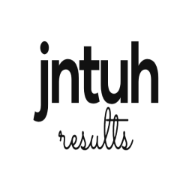
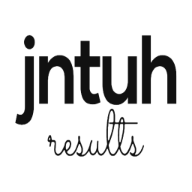
ui updated

Changed region(s): [[0.0625, 0.1562, 0.9375, 0.8438]]

diff --git a/components/Home/jnuth.js b/components/Home/jnuth.js
@@ -1,45 +1,34 @@
 import React, { useEffect, useState } from 'react';
-import Link from 'next/link';
-import { MdOutlineDarkMode, MdLightMode } from 'react-icons/md';
-import { AiFillGithub as GitHubIcon } from 'react-icons/ai';
 import Image from 'next/image';
-import { BiShareAlt } from 'react-icons/bi';
 
 const Jntuh = () => {
 
     return (
         <>
-            <div className="h-20 flex items-center px-4  sticky">
-                <h1 className="text-xll font-bold md:text-lg lg:text-2xl text-[#020E24] ml-9">
-
-                    <a>
+            <div className="h-20 flex items-center justify-between px-4 sticky">
+                <div className="flex items-center space-x-4">
+                    <a onClick={() => window.location.reload()}>
                         <Image
                             src="/jntuh.png"
-                            onClick="window.location.reload()"
-                            className="w-[60px]  sm:w-[80px]"
+                            className="w-16 md:w-24"
                             alt=""
-                            width={120}
-                            height={100}
+                            width={140}
+                            height={120}
                             quality={80}
                         />
                     </a>
-
-                </h1>
-
-                {/* <div className="font-bold  lg:text-3xl text-[#020E24] mt-1 ml-5 mb-6 ">
-                    <h2 className="text-center">
+                    <h1 className="text-2xl md:text-3xl lg:text-4xl font-bold text-[#020E24]">
                         Jawaharlal Nehru Technological University Hyderabad
-                    </h2>
-
-                </div> */}
-                <div className="flex flex-col items-center justify-center text-center ">
-                    <div className="p-6">
-                        <h1 className="text-xl lg:text-2xl font-bold mb-5 uppercase mr-10" >Jawaharlal Nehru Technological University Hyderabad</h1>
-                        <h1 className="text-lg text-black  sm:text-xl"></h1>
-                    </div>
+                    </h1>
                 </div>
+                {/* <div className="flex items-center justify-center">
+                    <h1 className="text-xl md:text-2xl lg:text-3xl font-bold text-black">
+                        JNTUH
+                    </h1>
+                </div> */}
             </div>
         </>
-    )
-}
+    );
+};
+
 export default Jntuh;

diff --git a/components/StudentDataCard/StudentDataCard.js b/components/StudentDataCard/StudentDataCard.js
@@ -145,13 +145,13 @@ const StudentDataCard = ({ query }) => {
     
           <a target="_blank" className='border-1 border-gray-100 hover:drop-shadow-sm group text-black shadow-2xl max-w-xs p-2 mt-6 md:w-36 rounded-xl hover:border-gray-500 transition ease-in-out delay-75 hover:-translate-y-1 hover:scale-105 hover:bg-gray-300 duration-300 m-4'>
             <h3 className='group-hover:text-black text-lg sm:text-xl font-bold text-center'>TOTAL PASSED</h3>
-            <p className='group-hover:text-black text-slate-500 mt-2 text-base sm:text-2xl text-center text-green-500'>{passedSubjects}</p>
+            <p className='group-hover:text-black text-slate-500 mt-2 text-base sm:text-2xl text-center text-green-300'>{passedSubjects}</p>
           </a>
         
         
-          <a target="_blank" className='border-1 border-gray-100 hover:drop-shadow-sm group text-black shadow-2xl max-w-xs p-2 mt-6 md:w-36 rounded-xl hover:border-gray-500 transition ease-in-out delay-75 hover:-translate-y-1 hover:scale-105 hover:bg-gray-300 duration-300 m-4'>
-            <h3 className='group-hover:text-black text-lg sm:text-xl font-bold text-center'>TOTAL FAILED</h3>
-            <p className='group-hover:text-black text-slate-500 mt-2 text-base sm:text-2xl text-center text-red-500'>{failedSubjects}</p>
+          <a target="_blank" className='border-1 border-gray-100 hover:drop-shadow-sm group text-black shadow-2xl max-w-xs p-2 mt-6 md:w-36 rounded-xl hover:border-gray-500 transition ease-in-out delay-75 hover:-translate-y-1 hover:scale-105 hover:bg-gray-300 duration-300 m-4 '>
+            <h3 className='group-hover:text-black text-lg sm:text-xl font-bold text-center '>TOTAL FAILED</h3>
+            <p className='group-hover:text-black text-slate-500 mt-2 text-base sm:text-2xl text-center text-red-300 '>{failedSubjects}</p>
           </a>
         
         <Link href="/CreditsCalculator">

diff --git a/pages/MultiList.js b/pages/MultiList.js
@@ -38,7 +38,7 @@ const HomePrintlist = ({ homepage }) => {
             <div method="get" >
                 <center>
                     <br />
-                    <h1 className="font-normal leading-normal mt-0 mb-2 font-bold mx-2 text-[1xl] sm:text-2xl">
+                    <h1 className="mb-2 font-bold text-[180%] ">
                         Multi Results List
                     </h1>
                     <p>
@@ -46,7 +46,7 @@ const HomePrintlist = ({ homepage }) => {
                     </p>
                     <br />
                     <div>
-                        <input onChange={inputEvent} name="htno_1" className="content-center border-[1px] border-double border-black rounded text-rounded text-center text-[60%]  shadow-xl w-[150px] h-[28px] sm:w-[200px] sm:h-[35px] sm:text-[100%] sm:mx-2" type="text" maxLength="10" placeholder="Enter From Roll Number" required />
+                        <input onChange={inputEvent} name="htno_1" className="content-center border-[1px] border-double border-black rounded text-rounded text-center text-[60%]  shadow-xl w-[150px] h-[28px] sm:w-[200px] sm:h-[35px] sm:text-[100%] sm:mx-2 m-1" type="text" maxLength="10" placeholder="Enter From Roll Number" required />
                         <input onChange={inputEvent} name="htno_2" className="my-2 content-center border-[1px] border-double border-black rounded text-rounded text-center text-[60%]  shadow-xl w-[150px] h-[28px] sm:w-[200px] sm:h-[35px] sm:text-[100%] md:my-0 sm:mx-2" type="text" maxLength="10" placeholder="Enter To Roll Number" required />
                     </div>
                     <select name="code" onChange={inputEvent} className="text-[60%] md:border-[0.5px] rounded border-black border-solid md:mt-[25px] md:text-[80%]">

diff --git a/pages/MultiResults.js b/pages/MultiResults.js
@@ -39,7 +39,7 @@ const Homemulti = ({ homepage }) => {
             <div method="get" >
                 <center>
                     <br />
-                    <h1 className="font-normal leading-normal mt-0 mb-2 font-bold mx-2 text-[1xl] sm:text-2xl">
+                    <h1 className="mb-2 font-bold text-[180%] ">
                         Multi Results
                     </h1>
                     <p>
@@ -47,7 +47,7 @@ const Homemulti = ({ homepage }) => {
                     </p>
                     <br />
                     <div>
-                        <input onChange={inputEvent} name="htno_1" className="content-center border-[1px] border-double border-black rounded text-rounded text-center text-[60%]  shadow-xl w-[150px] h-[28px] sm:w-[200px] sm:h-[35px] sm:text-[100%] sm:mx-2" type="text" maxLength="10" placeholder="Enter From Roll Number" required />
+                        <input onChange={inputEvent} name="htno_1" className="content-center border-[1px] border-double border-black rounded text-rounded text-center text-[60%]  shadow-xl w-[150px] h-[28px] sm:w-[200px] sm:h-[35px] sm:text-[100%] sm:mx-2 m-1" type="text" maxLength="10" placeholder="Enter From Roll Number" required />
                         <input onChange={inputEvent} name="htno_2" className="my-2 content-center border-[1px] border-double border-black rounded text-rounded text-center text-[60%]  shadow-xl w-[150px] h-[28px] sm:w-[200px] sm:h-[35px] sm:text-[100%] md:my-0 sm:mx-2" type="text" maxLength="10" placeholder="Enter To Roll Number" required />
                     </div>
                     <select name="code" onChange={inputEvent} className="text-[60%] md:border-[0.5px] rounded border-black border-solid md:mt-[25px] md:text-[80%]">

diff --git a/pages/CreditsCalculator.js b/pages/CreditsCalculator.js
@@ -109,7 +109,7 @@ const HomeCC = ({ homepage }) => {
         <>
             <form>
                 <div className="flex flex-col items-center justify-center text-center ">
-                    <h1 className="text-3xl font-bold mt-16 mb-4 text-blue-500">Welcome to Credits Checker</h1>
+                    <h1 className="text-3xl font-bold mt-16 mb-4 text-black-500">Credits Checker</h1>
                     <hr className="sm:w-96 w-48 border-gray-700 mb-4" />
                     <h6 className="font-normal leading-normal mt-5 mb-2 font-bold mx-2 text-[1xl] sm:text-2xl">Check Your Credits Eligible Critiera Here </h6>
                     <div className="flex flex-row items-center justify-center mb-6">
@@ -140,7 +140,6 @@ const HomeCC = ({ homepage }) => {
                         <input name="htno" onChange={inputEvent} className="border-[1px] m-[9.8px] border-double border-black rounded text-rounded text-center text-[60%]  shadow-xl w-[150px] h-[28px] sm:w-[200px] sm:h-[35px] sm:text-[100%] md:m-0" type="text" maxLength="10" placeholder="Enter your Roll Number" />
                         <br />
                         <p className="text-[60%] text-red-600">{warning}</p>
-                        <br />
                         <br />
                         <button type="submit" onClick={submit} className="w-[70px] text-white	bg-blue-700 rounded text-[60%] hover:bg-yellow-400 py-[0.15em] px-[1.2em] sm:w-[100px] sm:text-[100%]" >
                             Results

diff --git a/components/Home/HomeThanks.js b/components/Home/HomeThanks.js
@@ -21,11 +21,11 @@ function MyFlippyComponent({ name, position, company, link }) {
     >
       <div className=''>
         <br />
-        <FrontSide style={{ backgroundColor: '' }} className=' mt-2 rounded-xl shadow-2xl text-center font-bold  '>
+        <FrontSide style={{ backgroundColor: '' }} className=' mt-2 rounded-xl shadow-2xl text-center font-bold text-[67%] sm:text-[100%] '>
           {name}
         </FrontSide>
 
-        <BackSide style={{ backgroundColor: '' }} className='  rounded-xl shadow-2xl text-center font-bold '>
+        <BackSide style={{ backgroundColor: '' }} className='  rounded-xl shadow-2xl text-center font-bold text-[67%] sm:text-[100%]'>
           <a href={link} target="_blank" rel="noopener noreferrer">
             {position}<br />
             {company}
@@ -44,14 +44,12 @@ function MultiFlippyComponent() {
 
   return (
 
-    <div className="container mx-[4%]">
+    <div className="container  ">
       <div>
-        <h1 className='text-center font-bold '>THANKS</h1>
+        <h1 className='text-center font-bold text-[67%] sm:text-[100%]'>----THANKS----</h1>
       </div>
-
-      <br />
       {data.map((item, index) => (
-        <div key={index} className=" mt-2 mx-[1%]">
+        <div key={index} className=" mt-2">
           <MyFlippyComponent key={index} name={item.name} position={item.position} company={item.company} link={item.link} />
         </div>
       ))}

diff --git a/pages/CGPACalculator.js b/pages/CGPACalculator.js
@@ -55,7 +55,7 @@ const HomeStudentDataCard = ({ homepage }) => {
       <div method="get">
         <center>
           <br />
-          <h1 className="font-normal leading-normal mt-0 mb-2 font-bold mx-2 text-[1xl] sm:text-2xl">
+          <h1 className="mb-2 font-bold text-[180%]">
              Student Score Board
           </h1>
           <p>Get Your CGPA and SGPA Of All Semesters </p>
@@ -63,7 +63,6 @@ const HomeStudentDataCard = ({ homepage }) => {
           <input name="htno" onChange={inputEvent} className="border-[1px] m-[9.8px] border-double border-black rounded text-rounded text-center text-[60%]  shadow-xl w-[150px] h-[28px] sm:w-[200px] sm:h-[35px] sm:text-[100%] md:m-0" type="text" maxLength="10" placeholder="Enter your Roll Number" />
           <br />
           <p className="text-[60%] text-red-600">{warning}</p>
-          <br />
           <br />
           <button type="submit" onClick={submit} className="w-[70px] text-white	bg-blue-700 rounded text-[60%] hover:bg-yellow-400 py-[0.15em] px-[1.2em] sm:w-[100px] sm:text-[100%]" >
             Results

diff --git a/pages/ConsolidatedResult.js b/pages/ConsolidatedResult.js
@@ -66,18 +66,16 @@ const HomeSingle = ({ homepage }) => {
       <div method="get">
         <center>
           <br />
-          <h1 className="font-normal leading-normal mt-0 mb-2 font-bold mx-2 text-[1xl] sm:text-2xl">
+          <h1 className="mb-2 font-bold text-[180%] ">
              Consolidated Results
           </h1>
           <p>
             Grades For All Semesters Of A Particular Student
           </p>
           <br />
-          <br />
           <input name="htno" onChange={inputEvent} className="border-[1px] m-[9.8px] border-double border-black rounded text-rounded text-center text-[60%]  shadow-xl w-[150px] h-[28px] sm:w-[200px] sm:h-[35px] sm:text-[100%] md:m-0" type="text" maxLength="10" placeholder="Enter your Roll Number" />
           <br />
           <p className="text-[60%] text-red-600">{warning}</p>
-          <br />
           <br />
           <button type="submit" onClick={submit} className="w-[70px] text-white	bg-blue-700 rounded text-[60%] hover:bg-yellow-400 py-[0.15em] px-[1.2em] sm:w-[100px] sm:text-[100%]" >
             Results

diff --git a/pages/Backlogs.js b/pages/Backlogs.js
@@ -55,15 +55,14 @@ const HomeStudentDataCard = ({ homepage }) => {
       <div method="get">
         <center>
           <br />
-          <h1 className="font-normal leading-normal mt-0 mb-2 font-bold mx-2 text-[1xl] sm:text-2xl">
-             BACKLOGS FINDER
+          <h1 className="mb-2 font-bold text-[180%] ">
+             Backlogs Finder
           </h1>
           <p>Get Your Complete Backlogs List Here </p>
           <br />
           <input name="htno" onChange={inputEvent} className="border-[1px] m-[9.8px] border-double border-black rounded text-rounded text-center text-[60%]  shadow-xl w-[150px] h-[28px] sm:w-[200px] sm:h-[35px] sm:text-[100%] md:m-0" type="text" maxLength="10" placeholder="Enter your Roll Number" />
           <br />
           <p className="text-[60%] text-red-600">{warning}</p>
-          <br />
           <br />
           <button type="submit" onClick={submit} className="w-[70px] text-white	bg-blue-700 rounded text-[60%] hover:bg-yellow-400 py-[0.15em] px-[1.2em] sm:w-[100px] sm:text-[100%]" >
             Results

diff --git a/components/Layout/Nav.js b/components/Layout/Nav.js
@@ -43,7 +43,7 @@ const NavBarComponent = () => {
           <p>This feature is still in development.</p>
         </div>
       )}
-      <nav className="bg-transparent shadow-xl h-20 flex items-center px-4 lg:p-8 border-b-[0.1px] sticky">
+      <nav className="nav bg-transparent shadow-xl h-20 flex items-center px-4 lg:p-8 border-b-[0.1px] sticky">
         <h1 className="text-md font-bold md:text-lg lg:text-2xl flex-1 text-[#020E24] mt-1">
           <Link href="/">
             <a>
@@ -78,7 +78,7 @@ const NavBarComponent = () => {
                     }}>
           <BiShareAlt size="1.5rem" className="text-black"/>
           </h1> */}
-          <Icon icon={menu2Fill} className="w-5 h-5" onClick={handleMode}/>
+          <Icon icon={menu2Fill} className="w-8 h-8" onClick={handleMode}/>
         </div>
       </nav>
     </>

diff --git a/styles/globals.css b/styles/globals.css
@@ -87,17 +87,28 @@ tr:hover {background-color: rgb(227, 236, 239);}
 
 /* /////////// */
 /* added */
-.container {
-  display: flex;
-  flex-direction: row;
-  align-items: center;
-  justify-content: center;
-  
-  
+nav {
+  position: sticky;
+  top: 0;
+  backdrop-filter: blur(50px);
+  -webkit-backdrop-filter: blur(10px);
+  background-color: rgba(255, 255, 255, 0.5);
+  z-index: 1;
+  transition: all 0.9s ease; /* adds a smooth transition to all CSS changes */
 }
 
+nav:hover {
+  backdrop-filter: blur(15px);
+  -webkit-backdrop-filter: blur(15px);
+  background-color: rgba(255, 255, 255, 0.8);
+}
 
-
+.container {
+  display: flex;
+  flex-direction: column;
+  align-items: center;
+  justify-content: center;
+}
 
 .home-links {
   animation: fadeInAnimationLinks ease 1s;

diff --git a/pages/SemResults.js b/pages/SemResults.js
@@ -36,7 +36,7 @@ const HomeSemResult = ({ homepage }) => {
             <div method="get" >
                 <center>
                     <br />
-                    <h1 className="font-normal leading-normal mt-0 mb-2 font-bold mx-2 text-[1xl] sm:text-2xl">
+                    <h1 className="mb-2 font-bold text-[180%] ">
                         Semester Result
                     </h1>
                     <p>
